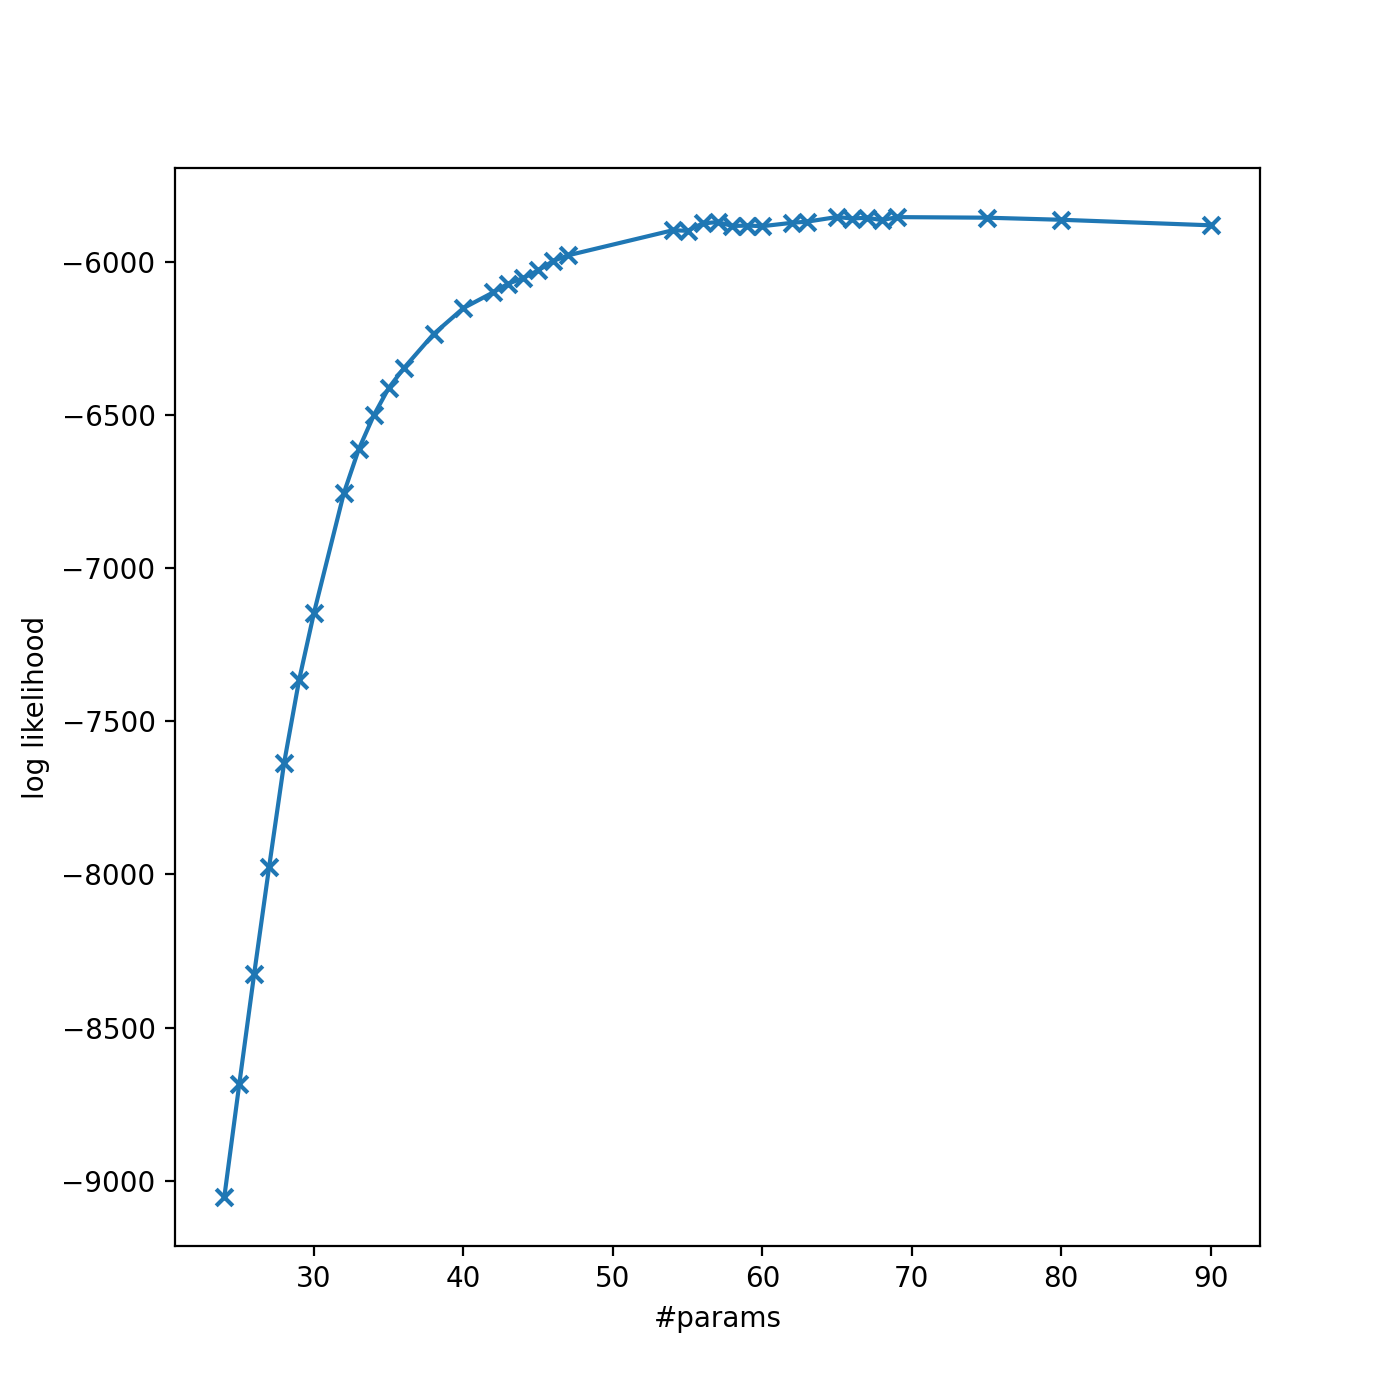
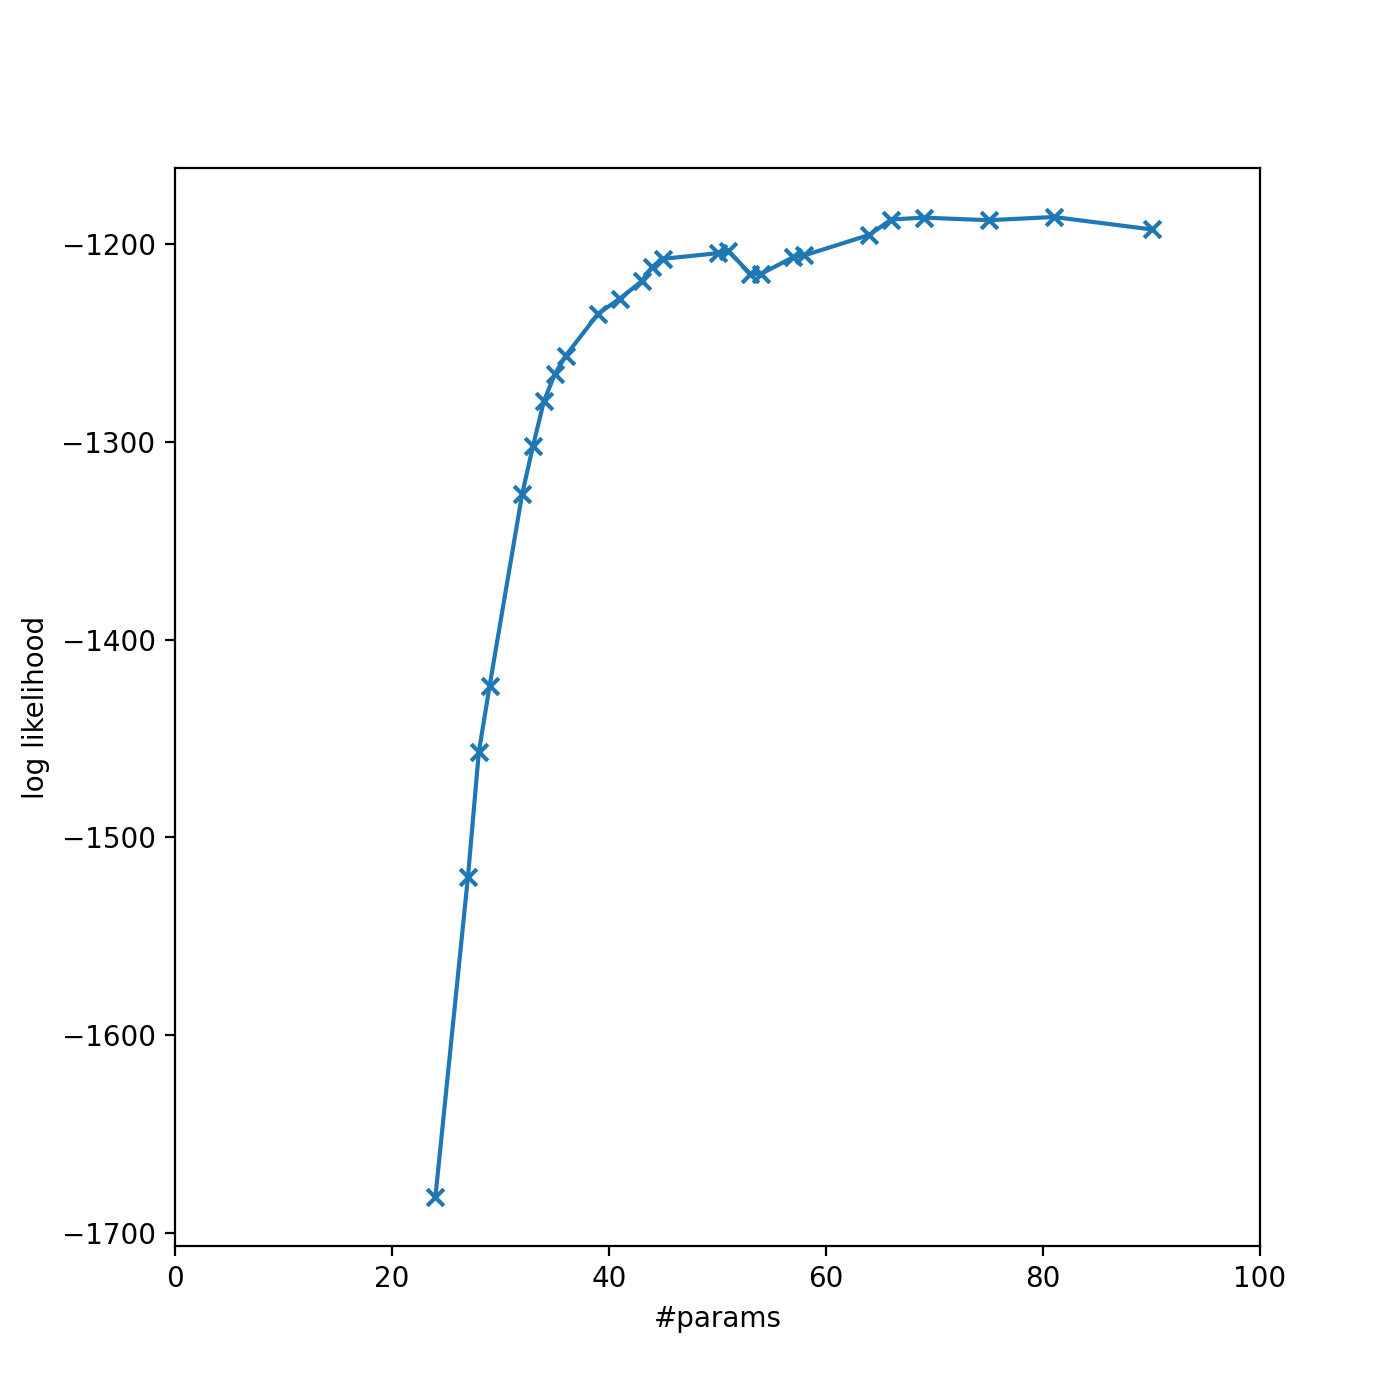
plots and times

diff --git a/final_project/src/testing.py b/final_project/src/testing.py
@@ -49,44 +49,49 @@ medium_lambdas = [4.5, 5, 5.2, 5.5, 6, 8, 10, 15, 21, 22, 23.15, 23.1]
 big_lambdas = [0, 0.2, 0.5, 1, 2, 3]
 train_set = pd.read_csv("my_train.csv").to_numpy()
 test_set = pd.read_csv("my_test.csv").to_numpy()
-for lambda_reg in small_lambdas + medium_lambdas + big_lambdas:
-    if lambda_reg in small_lambdas:
-        detective = GreedySearcher(empty_adjacency_matrix,
-                                   regularization_constant=lambda_reg,
+# times = []
+# for lambda_reg in small_lambdas + medium_lambdas + big_lambdas:
+#     if lambda_reg in small_lambdas:
+#         detective = GreedySearcher(empty_adjacency_matrix,
+#                                    regularization_constant=lambda_reg,
 
-                                   n_tabu_walks=3,
-                                   max_tabu_list_size=100,
-                                   tabu_walk_length=20,
+#                                    n_tabu_walks=3,
+#                                    max_tabu_list_size=100,
+#                                    tabu_walk_length=20,
 
-                                   n_random_restarts=5,
-                                   random_walk_length=5)
-    elif lambda_reg in medium_lambdas:
-        detective = GreedySearcher(empty_adjacency_matrix,
-                                   regularization_constant=lambda_reg,
+#                                    n_random_restarts=5,
+#                                    random_walk_length=5)
+#     elif lambda_reg in medium_lambdas:
+#         detective = GreedySearcher(empty_adjacency_matrix,
+#                                    regularization_constant=lambda_reg,
 
-                                   n_tabu_walks=3,
-                                   max_tabu_list_size=400,
-                                   tabu_walk_length=80,
+#                                    n_tabu_walks=3,
+#                                    max_tabu_list_size=400,
+#                                    tabu_walk_length=80,
 
-                                   n_random_restarts=5,
-                                   random_walk_length=5)
-    elif lambda_reg in big_lambdas:
-        detective = GreedySearcher(empty_adjacency_matrix,
-                                   regularization_constant=lambda_reg,
+#                                    n_random_restarts=5,
+#                                    random_walk_length=5)
+#     elif lambda_reg in big_lambdas:
+#         detective = GreedySearcher(empty_adjacency_matrix,
+#                                    regularization_constant=lambda_reg,
 
-                                   n_tabu_walks=3,
-                                   max_tabu_list_size=2000,
-                                   tabu_walk_length=150,
+#                                    n_tabu_walks=3,
+#                                    max_tabu_list_size=2000,
+#                                    tabu_walk_length=150,
 
-                                   n_random_restarts=5,
-                                   random_walk_length=10)
-    clock.start("hill climb")
-    print("climbing...")
-    top_adjacency_matrix = detective.fit(train_set)
-    clock.stop("hill climb")
-    clock.total("hill climb")
-    print_report(top_adjacency_matrix, test_set)
-    graphs.save(top_adjacency_matrix, name=f"train_top_{graphs.n_params(top_adjacency_matrix)}")
+#                                    n_random_restarts=5,
+#                                    random_walk_length=10)
+#     clock.start("hill climb")
+#     print("climbing...")
+#     top_adjacency_matrix = detective.fit(train_set)
+#     clock.stop("hill climb")
+#     clock.print_total("hill climb")
+#     times.append(clock.total("hill climb"))
+#     clock.clear_all()
+#     print_report(top_adjacency_matrix, test_set)
+#     graphs.save(top_adjacency_matrix, name=f"train_top_{graphs.n_params(top_adjacency_matrix)}")
+# print(times)
+# np.save("times.npy", np.array(times))
 
 
 print("calculating scores")
@@ -95,7 +100,7 @@ y = []
 for adjacency_matrix_file in glob.glob("graphs/train_top_*.npy"):
     adjacency_matrix = np.load(adjacency_matrix_file)
     n_params = graphs.n_params(adjacency_matrix)
-    log_likelihood = cross_validate_structure(adjacency_matrix, train_set, print_time=False)
+    log_likelihood = cross_validate_structure(adjacency_matrix, test_set, print_time=False)
     x.append(n_params)
     y.append(log_likelihood)
 order = np.argsort(x)
@@ -105,6 +110,7 @@ print("plotting")
 plt.figure(figsize=FIG_SIZE)
 plt.plot(x, y)
 plt.scatter(x, y, marker='x')
+plt.xlim(left=0, right=100)
 plt.xlabel("#params")
 plt.ylabel("log likelihood")
 plt.savefig("plots/likelihood.png", dpi=DPI)

diff --git a/final_project/src/clock.py b/final_project/src/clock.py
@@ -26,18 +26,30 @@ def stop(clock_name: str, print_time=False):
         print(f"timed {clock_name}: {round(time_elapsed, 2)}s")
 
 
-def avg(clock_name: str):
+def avg(clock_name: str) -> float:
+    if clock_name not in measured:
+        raise LookupError(f"The clock \"{clock_name}\" hasn't been measured!")
+    return np.mean(measured[clock_name])
+
+
+def print_avg(clock_name: str):
     if clock_name not in measured:
         raise LookupError(f"The clock \"{clock_name}\" hasn't been measured!")
     mean_time = np.mean(measured[clock_name])
     print(f"{clock_name}: avg time {round(mean_time, 2)}s")
 
 
-def total(clock_name: str):
+def total(clock_name: str) -> float:
     if clock_name not in measured:
         raise LookupError(f"The clock \"{clock_name}\" hasn't been measured!")
-    mean_time = np.sum(measured[clock_name])
-    print(f"{clock_name}: total time {round(mean_time, 2)}s")
+    return np.sum(measured[clock_name])
+
+
+def print_total(clock_name: str):
+    if clock_name not in measured:
+        raise LookupError(f"The clock \"{clock_name}\" hasn't been measured!")
+    total_time = np.sum(measured[clock_name])
+    print(f"{clock_name}: total time {round(total_time, 2)}s")
 
 
 def clear_all():

diff --git a/final_project/src/test_likelihood.py b/final_project/src/test_likelihood.py
@@ -53,7 +53,7 @@ def cross_validate_detective(detective: GreedySearcher, x: npt.NDArray[np.float6
         log_likelihoods[i] = gbn.log_likelihood(x_test)
         progress.update(i + 1)
     # print runtime
-    clock.avg("fitting detective")
+    clock.print_avg("fitting detective")
     clock.clear_all()
     # sum up the log likelihoods (mean is not the right tool here!)
     return np.sum(log_likelihoods, axis=0)
@@ -75,9 +75,9 @@ def cross_validate_structure(adjacency_matrix: npt.NDArray[np.bool_], x: npt.NDA
     clock.stop("total")
     # print runtime
     if print_time:
-        clock.avg("fitting data")
-        clock.avg("calculating log likelihood")
-        clock.total("total")
+        clock.print_avg("fitting data")
+        clock.print_avg("calculating log likelihood")
+        clock.print_total("total")
     clock.clear_all()
     # sum up the log likelihoods (mean is not the right tool here!)
     return np.sum(log_likelihoods, axis=0)

diff --git a/final_project/src/main.py b/final_project/src/main.py
@@ -112,7 +112,7 @@ def main():
     print("climbing...")
     top_adjacency_matrix = detective.fit(dataset)
     clock.stop("hill climb")
-    clock.total("hill climb")
+    clock.print_total("hill climb")
     print_report(top_adjacency_matrix, dataset)
     graphs.save(top_adjacency_matrix, name=f"top_{graphs.n_params(top_adjacency_matrix)}")
     np.save("logs/small_example.npy", np.array((detective.score_history, detective.method_starts), dtype=object))
